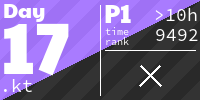
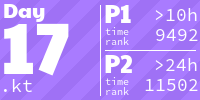
Day #17 p2

diff --git a/src/Day17.kt b/src/Day17.kt
@@ -1,3 +1,5 @@
+import kotlin.math.pow
+
 fun main() {
     fun simulation(input: String, steps: Long): Long {
         return Chamber(steps, GasJets(input)).simulate()
@@ -10,7 +12,7 @@ fun main() {
     // test if implementation meets criteria from the description, like:
     val testInput = readInput("Day17_test")
     check(part1(testInput.first()).also { println("part1 test: $it") } == 3068L)
-    check(part2(testInput.first()).also { println("part2 test: $it") } == 1514285714288)
+//    check(part2(testInput.first()).also { println("part2 test: $it") } == 1514285714288)
 
     val input = readInput("Day17")
     println(part1(input.first()))
@@ -24,17 +26,17 @@ private class Chamber(
     private val blockGenerator = BlockGenerator()
     private var blocksArray = mutableListOf<Array<Boolean>>()
     private var currentBlock = blockGenerator.get(3)
-    private var blocks = 0
-    private var bottomOffset = 0L
+    private var blocks = 0L
+    private var step = 0L
+    private var height = 0L
 
     fun simulate(): Long {
-        while (notFull()) {
+        while (blocks < steps) {
             gasPush(gasJets.getNext())
+            detektCycle()
         }
-        return maxHeight()
+        return height
     }
-
-    private fun notFull(): Boolean = blocks < steps
 
     private fun gasPush(direction: GasDirection) {
         if (currentBlock.canGoTo(direction)) {
@@ -47,33 +49,23 @@ private class Chamber(
         }
     }
 
-    private fun maxHeight(): Long = bottomOffset + blocksArray.size.toLong()
-
     private fun addBlock() {
         blocks++
         currentBlock.points().sortedBy(Pair<Long, Long>::second).forEach { (x, y) -> take(x, y) }
-        shrink()
-        currentBlock = blockGenerator.get(maxHeight() + 3)
+        currentBlock = blockGenerator.get(blocksArray.size + 3L)
     }
 
     private fun take(x: Long, y: Long) {
-        val offsetY = y - bottomOffset
-        if (offsetY > blocksArray.lastIndex) {
+        if (y > blocksArray.lastIndex) {
             blocksArray.add(Array(7) { j -> j == x.toInt() })
+            height++
         } else {
-            blocksArray[offsetY.toInt()][x.toInt()] = true
-        }
-    }
-
-    private fun shrink() {
-        if (blocksArray.size > 30) {
-            blocksArray = blocksArray.drop(10).toMutableList()
-            bottomOffset += 10
+            blocksArray[y.toInt()][x.toInt()] = true
         }
     }
 
     private fun taken(x: Long, y: Long): Boolean {
-        return y < maxHeight() && blocksArray[(y - bottomOffset).toInt()][x.toInt()]
+        return y < blocksArray.size && blocksArray[(y).toInt()][x.toInt()]
     }
 
     private fun Block.intersects(): Boolean = points().any { (x, y) -> x < 0 || x > 6 || y < 0 || taken(x, y) }
@@ -87,11 +79,30 @@ private class Chamber(
 
     private fun printArray() {
         println()
-        blocksArray.reversed().forEach { row ->
+        blocksArray.reversed().take(100).forEach { row ->
             row.forEach {
                 if (it) print("■") else print("∙")
             }
             println()
+        }
+    }
+
+    private var preCycleHeight = 0L
+    private var preCycleBlocks = 0L
+    private fun detektCycle() {
+        step++
+        if (step % 10091L == 0L) {
+            if (step / 10091L == 1L) {
+                preCycleHeight = height
+                preCycleBlocks = blocks
+            }
+            if (step / 10091L == 2L) {
+                val cycleHeight = height - preCycleHeight
+                val cycleBlocks = blocks - preCycleBlocks
+                val cyclesCount = (steps - preCycleBlocks) / cycleBlocks
+                height += cycleHeight * (cyclesCount - 1)
+                blocks += cycleBlocks * (cyclesCount - 1)
+            }
         }
     }
 }

diff --git a/AoCTiles/.aoc_tiles_cache/leaderboard2022.html b/AoCTiles/.aoc_tiles_cache/leaderboard2022.html
@@ -88,17 +88,17 @@ If you'd like to hang out, I'm @ericwastl on Twitter.
 
 -->
 <body>
-<header><div><h1 class="title-global"><a href="/">Advent of Code</a></h1><nav><ul><li><a href="/2022/about">[About]</a></li><li><a href="/2022/events">[Events]</a></li><li><a href="https://teespring.com/stores/advent-of-code" target="_blank">[Shop]</a></li><li><a href="/2022/settings">[Settings]</a></li><li><a href="/2022/auth/logout">[Log Out]</a></li></ul></nav><div class="user">andrikeev <span class="star-count">35*</span></div></div><div><h1 class="title-event">&nbsp;&nbsp;&nbsp;<span class="title-event-wrap">$year=</span><a href="/2022">2022</a><span class="title-event-wrap">;</span></h1><nav><ul><li><a href="/2022">[Calendar]</a></li><li><a href="/2022/support">[AoC++]</a></li><li><a href="/2022/sponsors">[Sponsors]</a></li><li><a href="/2022/leaderboard">[Leaderboard]</a></li><li><a href="/2022/stats">[Stats]</a></li></ul></nav></div></header>
+<header><div><h1 class="title-global"><a href="/">Advent of Code</a></h1><nav><ul><li><a href="/2022/about">[About]</a></li><li><a href="/2022/events">[Events]</a></li><li><a href="https://teespring.com/stores/advent-of-code" target="_blank">[Shop]</a></li><li><a href="/2022/settings">[Settings]</a></li><li><a href="/2022/auth/logout">[Log Out]</a></li></ul></nav><div class="user">andrikeev <span class="star-count">36*</span></div></div><div><h1 class="title-event">&nbsp;&nbsp;&nbsp;<span class="title-event-wrap">var y=</span><a href="/2022">2022</a><span class="title-event-wrap">;</span></h1><nav><ul><li><a href="/2022">[Calendar]</a></li><li><a href="/2022/support">[AoC++]</a></li><li><a href="/2022/sponsors">[Sponsors]</a></li><li><a href="/2022/leaderboard">[Leaderboard]</a></li><li><a href="/2022/stats">[Stats]</a></li></ul></nav></div></header>
 
 <div id="sidebar">
-<div id="sponsor"><div class="quiet">Our <a href="/2022/sponsors">sponsors</a> help make Advent of Code possible:</div><div class="sponsor"><a href="https://bit.ly/shopifyatadventofcode22" target="_blank" onclick="if(ga)ga('send','event','sponsor','sidebar',this.href);" rel="noopener">Shopify</a> - Check out our engineering blog and learn how Yule be able to solve commerce problems at scale by joining Shopify. Happy Holidays!</div></div>
+<div id="sponsor"><div class="quiet">Our <a href="/2022/sponsors">sponsors</a> help make Advent of Code possible:</div><div class="sponsor"><a href="https://sentry.io/" target="_blank" onclick="if(ga)ga('send','event','sponsor','sidebar',this.href);" rel="noopener">Sentry.io</a> - More than 3.5 million developers across 85,000 organizations ship better software, faster, with Sentry. What are you waiting for?</div></div>
 </div><!--/sidebar-->
 
 <main>
 <article><p>These are your personal leaderboard statistics.  <em>Rank</em> is your position on that leaderboard: 1 means you were the first person to get that star, 2 means the second, 100 means the 100th, etc.  <em>Score</em> is the number of points you got for that rank: 100 for 1st, 99 for 2nd, ..., 1 for 100th, and 0 otherwise.</p><pre>      <span class="leaderboard-daydesc-first">--------Part 1---------</span>   <span class="leaderboard-daydesc-both">--------Part 2---------</span>
 Day   <span class="leaderboard-daydesc-first">    Time    Rank  Score</span>   <span class="leaderboard-daydesc-both">    Time    Rank  Score</span>
  18   09:20:08   13186      0   13:21:50   11403      0
- 17   10:53:48    9492      0          -       -      -
+ 17   10:53:48    9492      0       &gt;24h   11502      0
  16   11:46:00    8759      0   16:54:19    7087      0
  15   01:18:05    5071      0   03:31:10    5438      0
  14   02:45:54    9005      0   03:25:21    9135      0

diff --git a/README.md b/README.md
@@ -2,7 +2,7 @@
 
 <!-- AOC TILES BEGIN -->
 <h1 align="center">
-  2022 - 35 ⭐
+  2022 - 36 ⭐
 </h1>
 <a href="src/Day01.kt">
   <img src="AoCTiles/Media/2022/01.png" width="161px">
